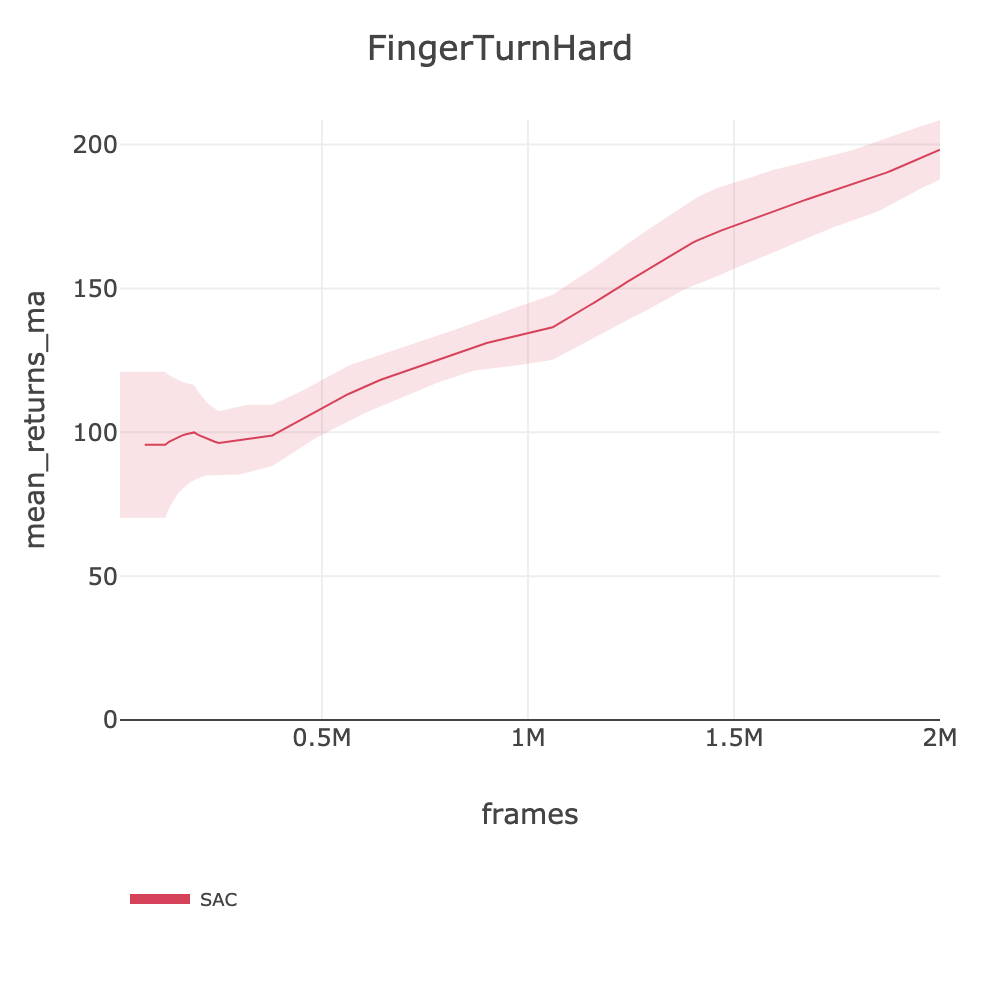
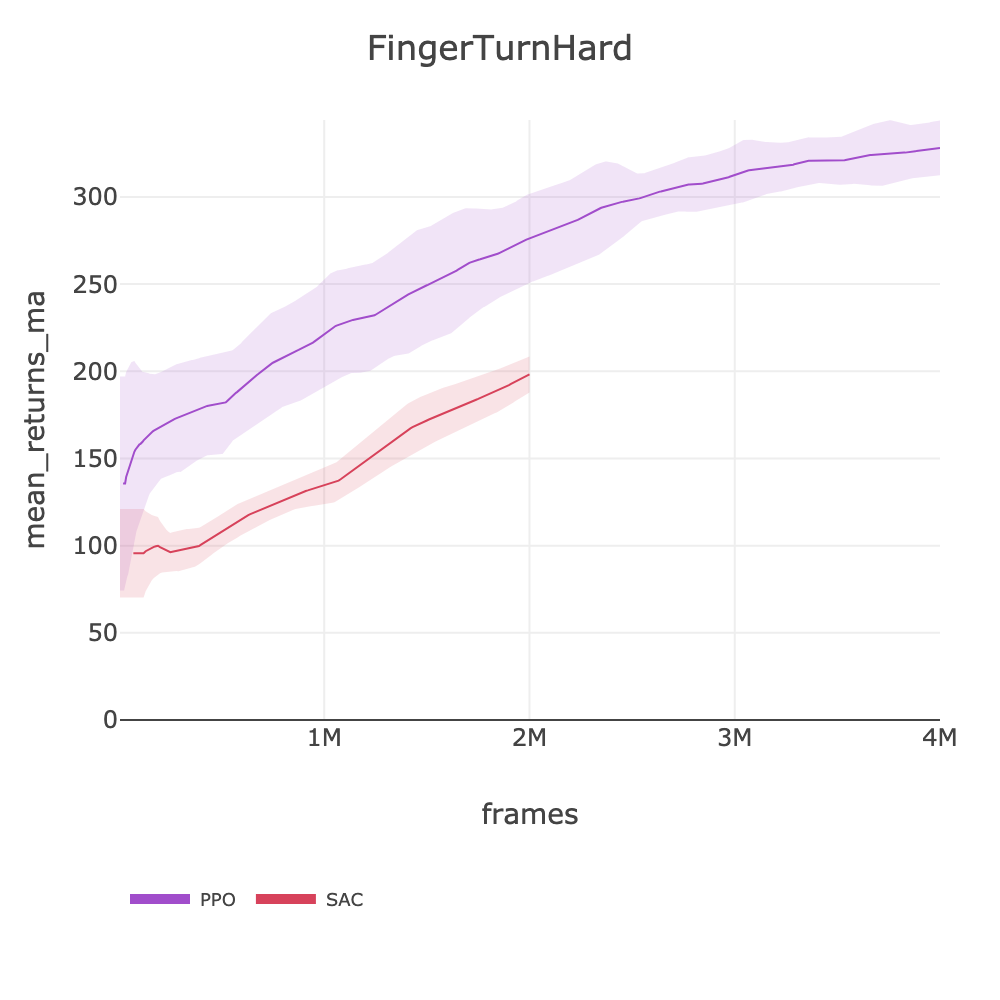
feat: Phase 5 FingerTurnHard PPO 4M (328.15)

diff --git a/docs/BENCHMARKS.md b/docs/BENCHMARKS.md
@@ -797,7 +797,8 @@ source .env && slm-lab run-remote --gpu -s env=playground/CartpoleBalance -s max
 | playground/CartpoleBalance | PPO | 918.12 | ~995 | ~2000 (256e) | 2M | ~0.3h | [ppo_playground_arc_cartpolebalance_2026_03_06_153756](https://huggingface.co/datasets/SLM-Lab/benchmark-dev/tree/main/data/ppo_playground_arc_cartpolebalance_2026_03_06_153756) |
 | | SAC (DR128) | 613.83 | | ~3540 (dr128/128e) | 10M | ~0.8h | [sac_playground_arc_dr128_cartpolebalance_2026_03_06_181905](https://huggingface.co/datasets/SLM-Lab/benchmark-dev/tree/main/data/sac_playground_arc_dr128_cartpolebalance_2026_03_06_181905) |
 | playground/CartpoleBalanceSparse | PPO | 504.59 | ~992 | ~310 (256e) | 1M | ~0.9h | [ppo_playground_arc_cartpolebalancesparse_2026_03_06_181842](https://huggingface.co/datasets/SLM-Lab/benchmark-dev/tree/main/data/ppo_playground_arc_cartpolebalancesparse_2026_03_06_181842) |
-| playground/CartpoleSwingup | SAC | 371.40 | ~868 | ~60 (hard/16e) | 1M | ~4.6h | [sac_playground_arc_cartpoleswingup_2026_03_06_130653](https://huggingface.co/datasets/SLM-Lab/benchmark-dev/tree/main/data/sac_playground_arc_cartpoleswingup_2026_03_06_130653) |
+| playground/CartpoleSwingup | PPO | 725.55 | ~868 | ~320 (256e) | 4M | ~3.5h | [ppo_playground_arc_cartpoleswingup_2026_03_07_092749](https://huggingface.co/datasets/SLM-Lab/benchmark-dev/tree/main/data/ppo_playground_arc_cartpoleswingup_2026_03_07_092749) |
+| | SAC | 371.40 | | ~60 (hard/16e) | 1M | ~4.6h | [sac_playground_arc_cartpoleswingup_2026_03_06_130653](https://huggingface.co/datasets/SLM-Lab/benchmark-dev/tree/main/data/sac_playground_arc_cartpoleswingup_2026_03_06_130653) |
 | playground/CartpoleSwingupSparse | PPO | 545.07 | ~630 | ~420 (256e) | 4M | ~2.5h | [ppo_playground_arc_cartpoleswingupsparse_2026_03_07_100455](https://huggingface.co/datasets/SLM-Lab/benchmark-dev/tree/main/data/ppo_playground_arc_cartpoleswingupsparse_2026_03_07_100455) |
 | | SAC | 0.38 | | ~67 (hard/16e) | 1M | ~4.6h | [sac_playground_arc_utd1_cartpoleswingupsparse_2026_03_06_221127](https://huggingface.co/datasets/SLM-Lab/benchmark-dev/tree/main/data/sac_playground_arc_utd1_cartpoleswingupsparse_2026_03_06_221127) |
 | playground/CheetahRun | PPO | 53.61 | ~839 | ~2000 (256e) | 2M | ~0.3h | [ppo_playground_arc_cheetahrun_2026_03_06_134309](https://huggingface.co/datasets/SLM-Lab/benchmark-dev/tree/main/data/ppo_playground_arc_cheetahrun_2026_03_06_134309) |
@@ -806,7 +807,8 @@ source .env && slm-lab run-remote --gpu -s env=playground/CartpoleBalance -s max
 | | SAC | 327.57 | | ~350 (fast/64e) | 1M | ~0.8h | [sac_playground_arc_fingerspin_2026_03_06_150750](https://huggingface.co/datasets/SLM-Lab/benchmark-dev/tree/main/data/sac_playground_arc_fingerspin_2026_03_06_150750) |
 | playground/FingerTurnEasy | PPO | 346.28 | ~709 | ~409 (256e) | 4M | ~2.7h | [ppo_playground_arc_fingerturneasy_2026_03_07_100527](https://huggingface.co/datasets/SLM-Lab/benchmark-dev/tree/main/data/ppo_playground_arc_fingerturneasy_2026_03_07_100527) |
 | | SAC | 408.73 | | ~350 (fast/64e) | 1M | ~0.8h | [sac_playground_arc_fingerturneasy_2026_03_06_134326](https://huggingface.co/datasets/SLM-Lab/benchmark-dev/tree/main/data/sac_playground_arc_fingerturneasy_2026_03_06_134326) |
-| playground/FingerTurnHard | SAC | 198.22 | ~249 | ~413 (fast/64e) | 2M | ~1.3h | [sac_playground_arc_fast_fingerturnhard_2026_03_06_181841](https://huggingface.co/datasets/SLM-Lab/benchmark-dev/tree/main/data/sac_playground_arc_fast_fingerturnhard_2026_03_06_181841) |
+| playground/FingerTurnHard | PPO | 328.15 | ~249 | ~395 (256e) | 4M | ~2.7h | [ppo_playground_arc_fingerturnhard_2026_03_07_100533](https://huggingface.co/datasets/SLM-Lab/benchmark-dev/tree/main/data/ppo_playground_arc_fingerturnhard_2026_03_07_100533) |
+| | SAC | 198.22 | | ~413 (fast/64e) | 2M | ~1.3h | [sac_playground_arc_fast_fingerturnhard_2026_03_06_181841](https://huggingface.co/datasets/SLM-Lab/benchmark-dev/tree/main/data/sac_playground_arc_fast_fingerturnhard_2026_03_06_181841) |
 | playground/FishSwim | SAC | 98.57 | ~136 | ~114 (baseline/16e) | 2M | ~4.7h | [sac_playground_arc_fishswim_2026_03_06_134402](https://huggingface.co/datasets/SLM-Lab/benchmark-dev/tree/main/data/sac_playground_arc_fishswim_2026_03_06_134402) |
 | playground/HopperHop | SAC | 1.56 | ~295 | ~67 (hard/16e) | 1M | ~4.6h | [sac_playground_arc_utd1_hopperhop_2026_03_06_235252](https://huggingface.co/datasets/SLM-Lab/benchmark-dev/tree/main/data/sac_playground_arc_utd1_hopperhop_2026_03_06_235252) |
 | playground/HopperStand | SAC | 277.46 | ~645 | ~350 (fast/64e) | 1M | ~0.8h | [sac_playground_arc_hopperstand_2026_03_06_125934](https://huggingface.co/datasets/SLM-Lab/benchmark-dev/tree/main/data/sac_playground_arc_hopperstand_2026_03_06_125934) |
